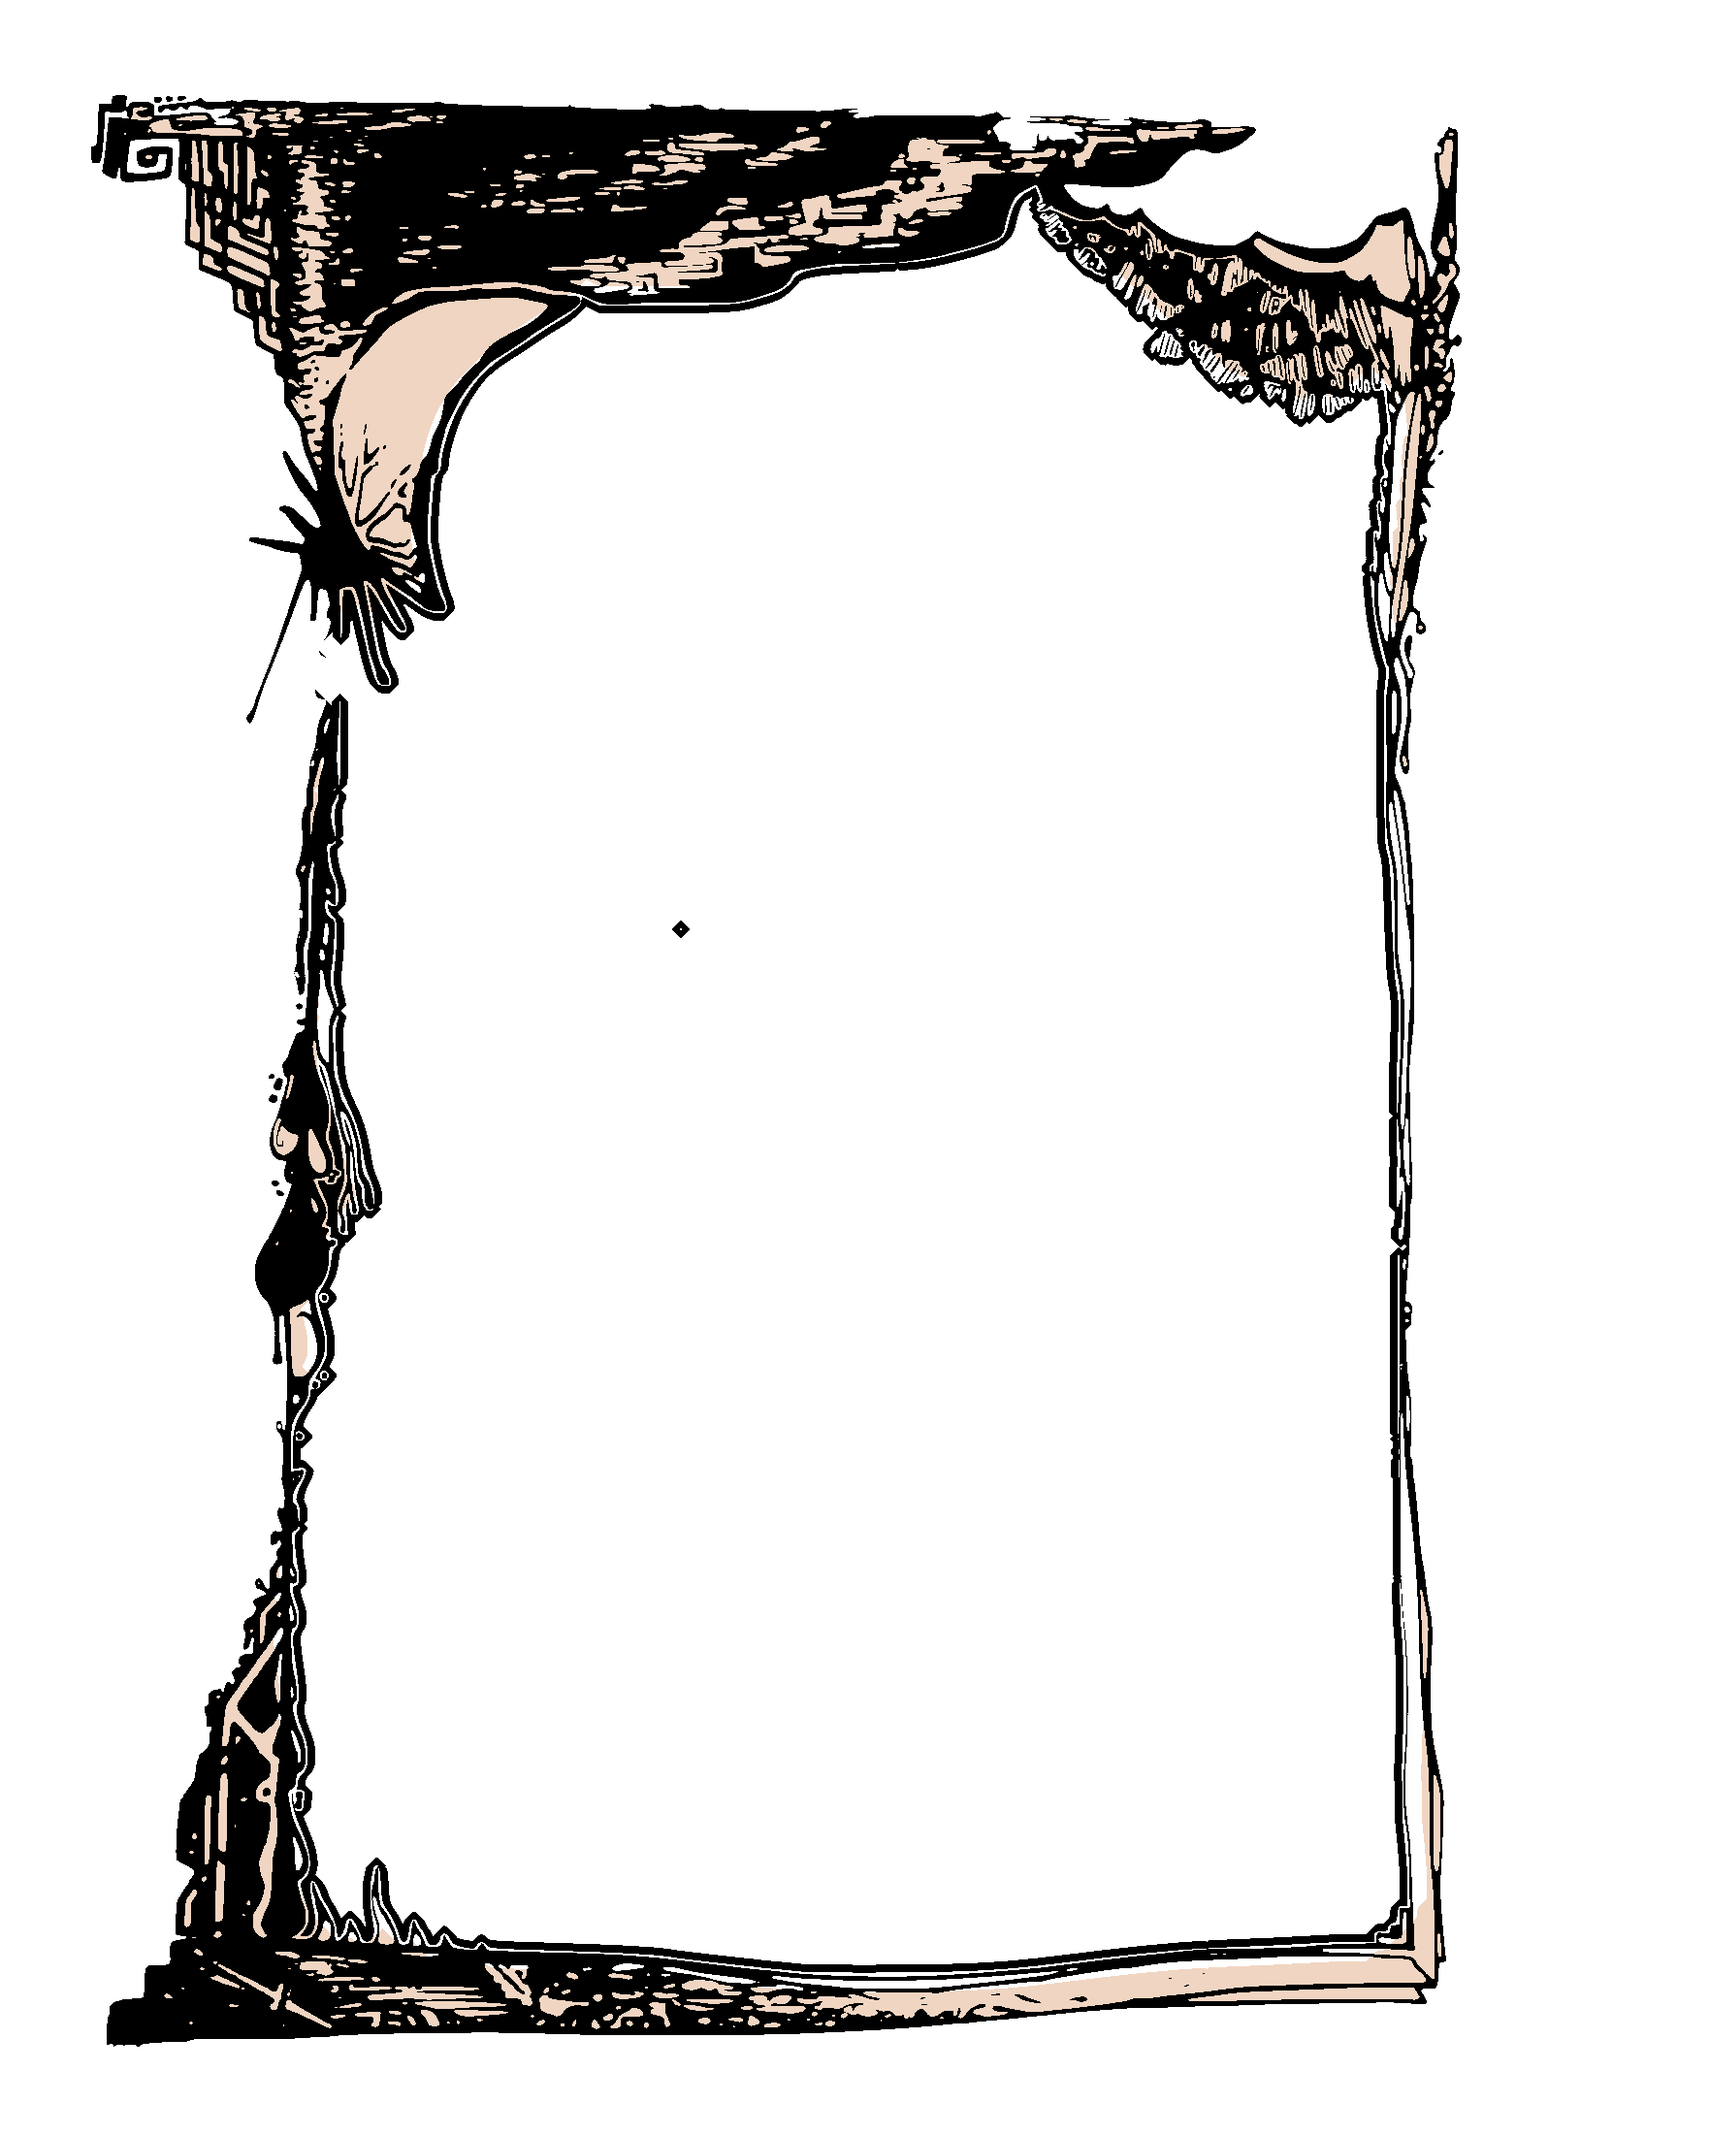
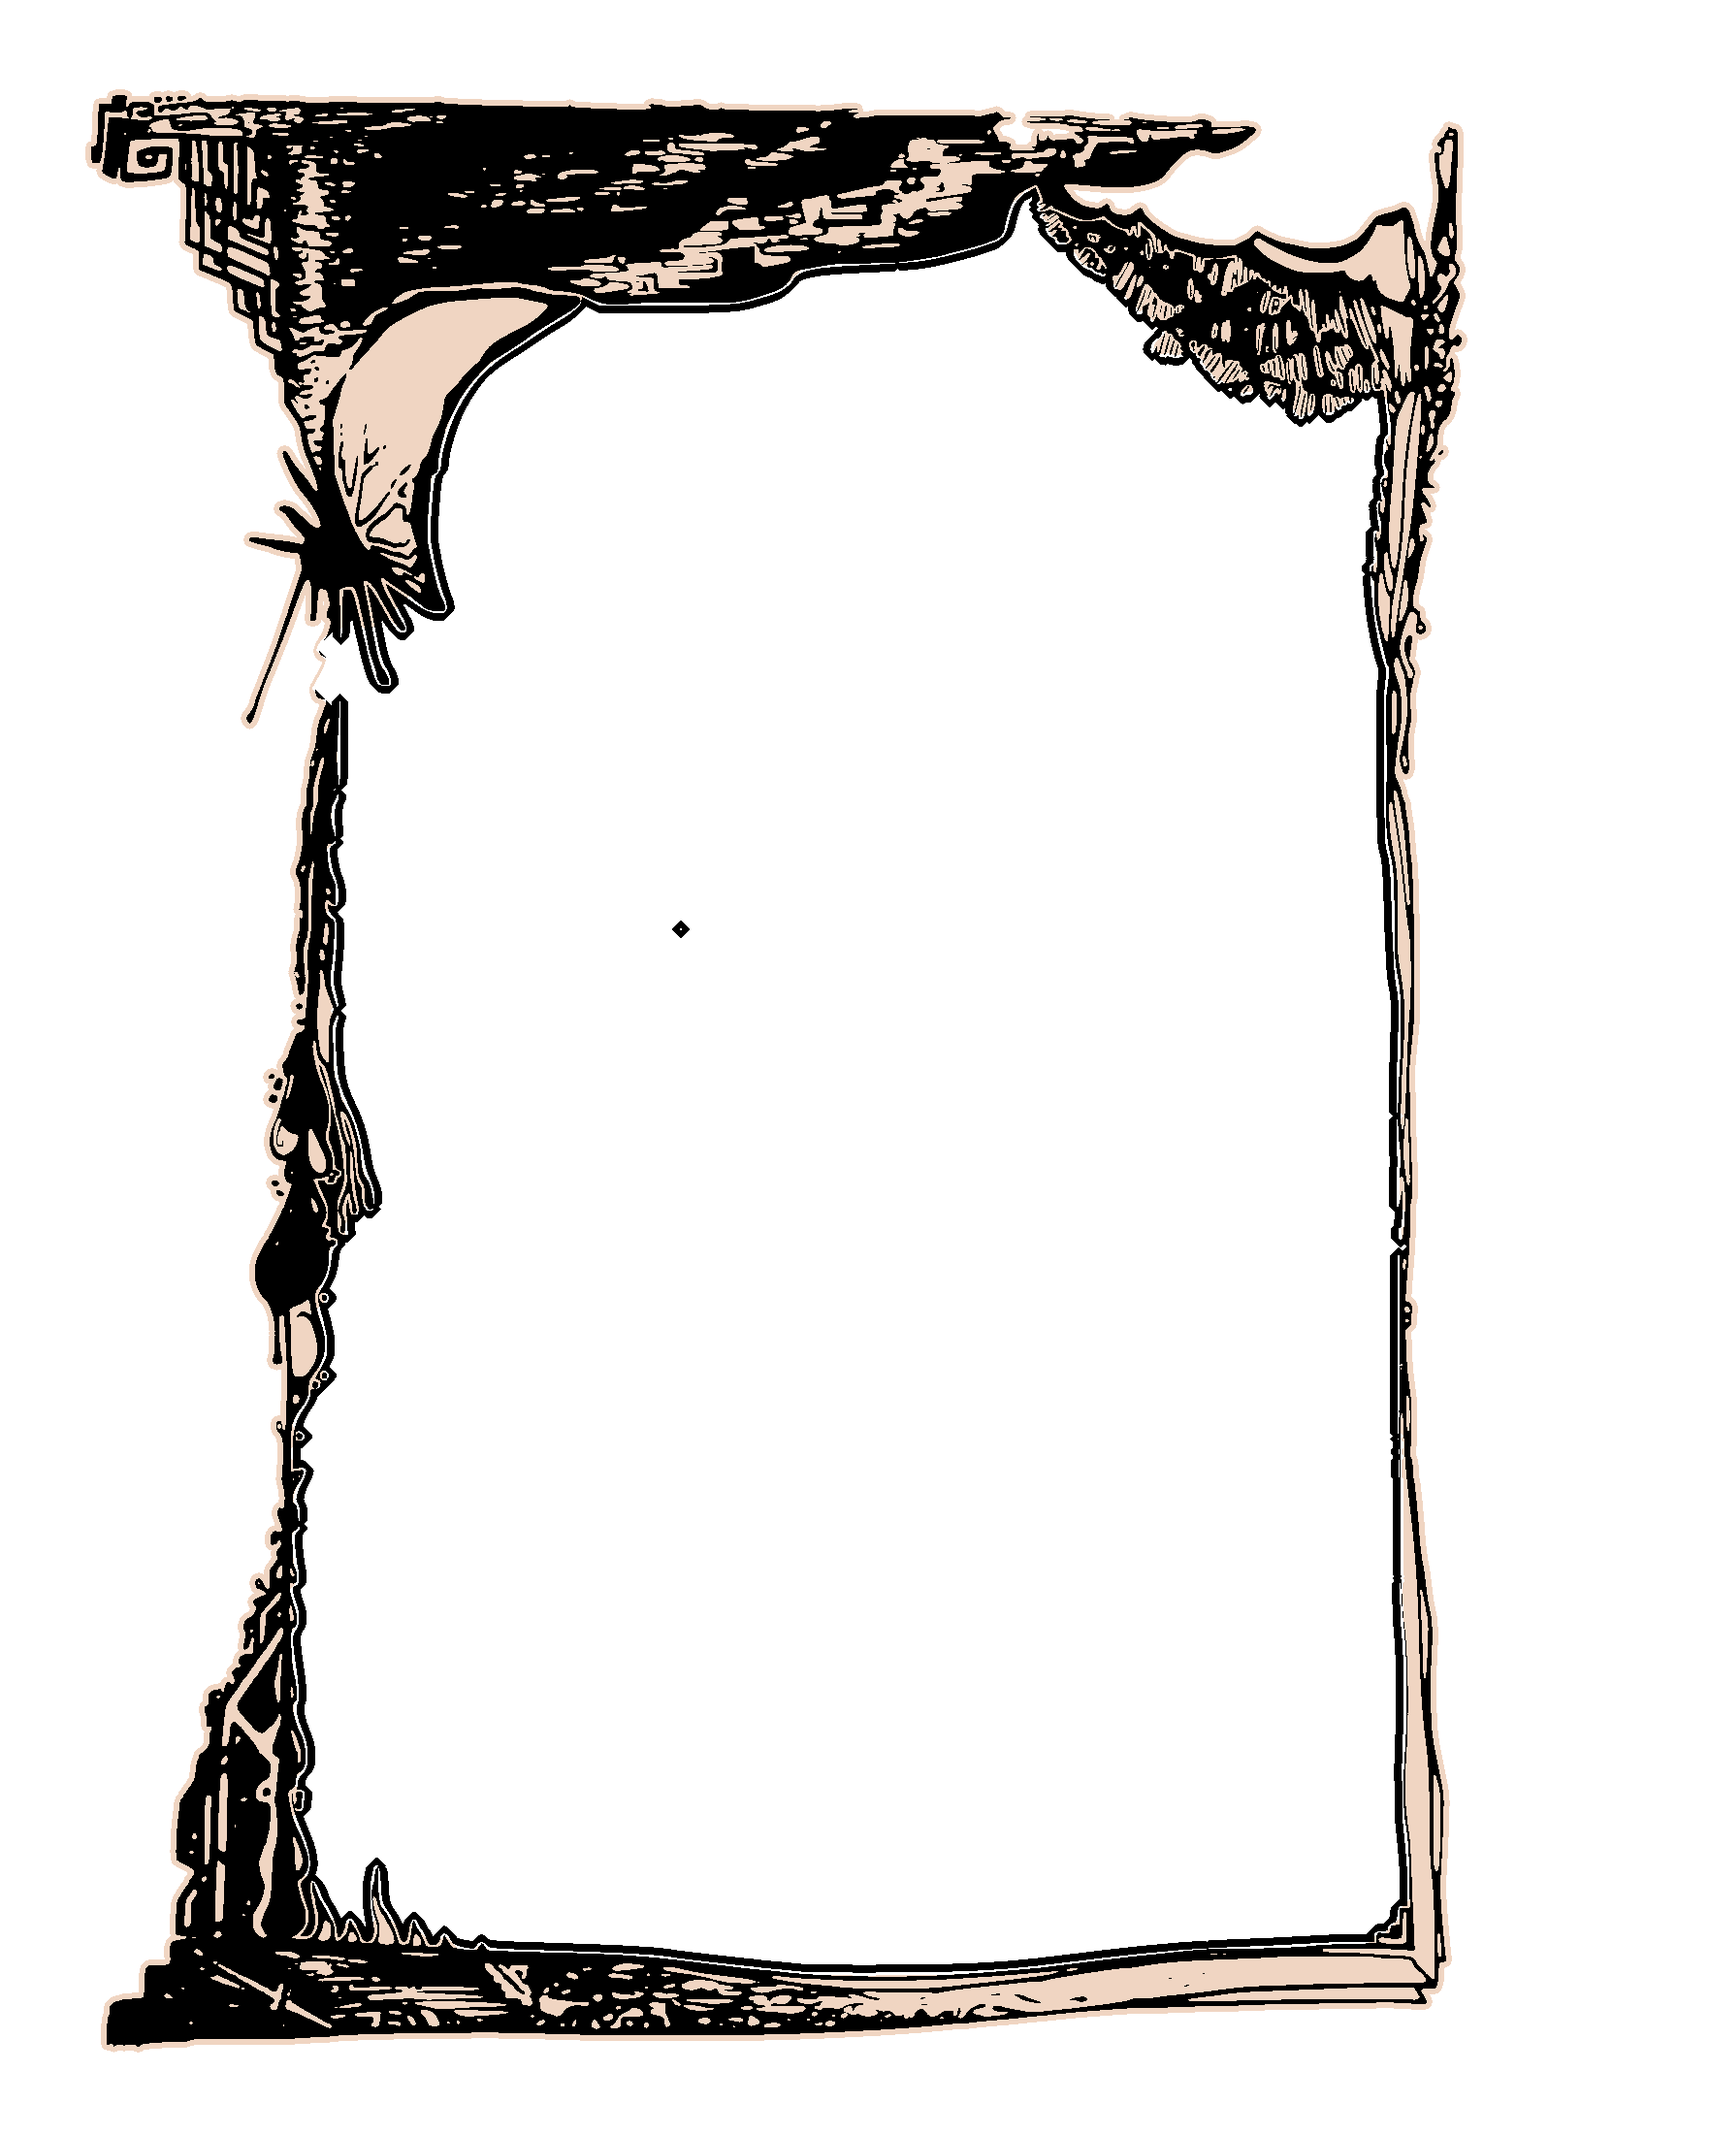
Restore the cream fringe on the ink drips, not just the moon
Same root cause as the moon's outline: the thin highlight slivers
running alongside each ink drip below the splatter are only a few
pixels wide, and several segments happen to touch the vast open
background through a hairline gap - which made the "enclosed holes
only" rule (used to decide what gets painted cream) wrongly treat
them as part of the open exterior and skip them, leaving them
transparent so the photo showed through mid-drip instead of cream.

Replaced that rule with two combined tests: a hole still counts as
"paint it cream" either if it's a properly enclosed cutout (the moon)
or if it's simply close to kept ink (a Euclidean distance transform,
<=6px - catches thin slivers regardless of where their far end
happens to wander), while anything within a small buffer of the
backdrop-fill zone is excluded either way so the player's plain
backdrop stays clean.

diff --git a/audio-fr.html b/audio-fr.html
@@ -46,7 +46,7 @@
           </div>
         </div>
       </div>
-      <img src="audio-frame-overlay.png?v=3" alt="" class="native-audio-frame-overlay">
+      <img src="audio-frame-overlay.png?v=4" alt="" class="native-audio-frame-overlay">
     </div>
     <p class="bandcamp-link-below"><a class="content-link social-link" href="https://comodorosuleyman.bandcamp.com/" target="_blank" rel="noopener"><svg class="social-icon" viewBox="0 0 512 512" aria-hidden="true"><path fill="currentColor" d="M256,8C119,8,8,119,8,256S119,504,256,504,504,393,504,256,393,8,256,8Zm48.2,326.1h-181L207.9,178h181Z"/></svg>Écouter sur Bandcamp</a></p>
   </div>

diff --git a/audio-es.html b/audio-es.html
@@ -46,7 +46,7 @@
           </div>
         </div>
       </div>
-      <img src="audio-frame-overlay.png?v=3" alt="" class="native-audio-frame-overlay">
+      <img src="audio-frame-overlay.png?v=4" alt="" class="native-audio-frame-overlay">
     </div>
     <p class="bandcamp-link-below"><a class="content-link social-link" href="https://comodorosuleyman.bandcamp.com/" target="_blank" rel="noopener"><svg class="social-icon" viewBox="0 0 512 512" aria-hidden="true"><path fill="currentColor" d="M256,8C119,8,8,119,8,256S119,504,256,504,504,393,504,256,393,8,256,8Zm48.2,326.1h-181L207.9,178h181Z"/></svg>Escuchar en Bandcamp</a></p>
   </div>

diff --git a/audio-ro.html b/audio-ro.html
@@ -46,7 +46,7 @@
           </div>
         </div>
       </div>
-      <img src="audio-frame-overlay.png?v=3" alt="" class="native-audio-frame-overlay">
+      <img src="audio-frame-overlay.png?v=4" alt="" class="native-audio-frame-overlay">
     </div>
     <p class="bandcamp-link-below"><a class="content-link social-link" href="https://comodorosuleyman.bandcamp.com/" target="_blank" rel="noopener"><svg class="social-icon" viewBox="0 0 512 512" aria-hidden="true"><path fill="currentColor" d="M256,8C119,8,8,119,8,256S119,504,256,504,504,393,504,256,393,8,256,8Zm48.2,326.1h-181L207.9,178h181Z"/></svg>Ascultă pe Bandcamp</a></p>
   </div>

diff --git a/audio.html b/audio.html
@@ -46,7 +46,7 @@
           </div>
         </div>
       </div>
-      <img src="audio-frame-overlay.png?v=3" alt="" class="native-audio-frame-overlay">
+      <img src="audio-frame-overlay.png?v=4" alt="" class="native-audio-frame-overlay">
     </div>
     <p class="bandcamp-link-below"><a class="content-link social-link" href="https://comodorosuleyman.bandcamp.com/" target="_blank" rel="noopener"><svg class="social-icon" viewBox="0 0 512 512" aria-hidden="true"><path fill="currentColor" d="M256,8C119,8,8,119,8,256S119,504,256,504,504,393,504,256,393,8,256,8Zm48.2,326.1h-181L207.9,178h181Z"/></svg>Listen on Bandcamp</a></p>
   </div>
